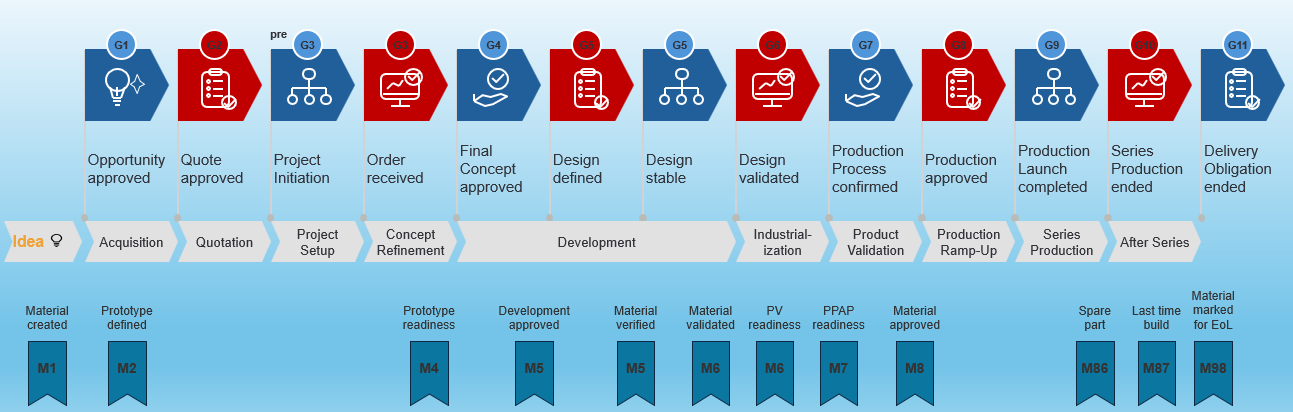
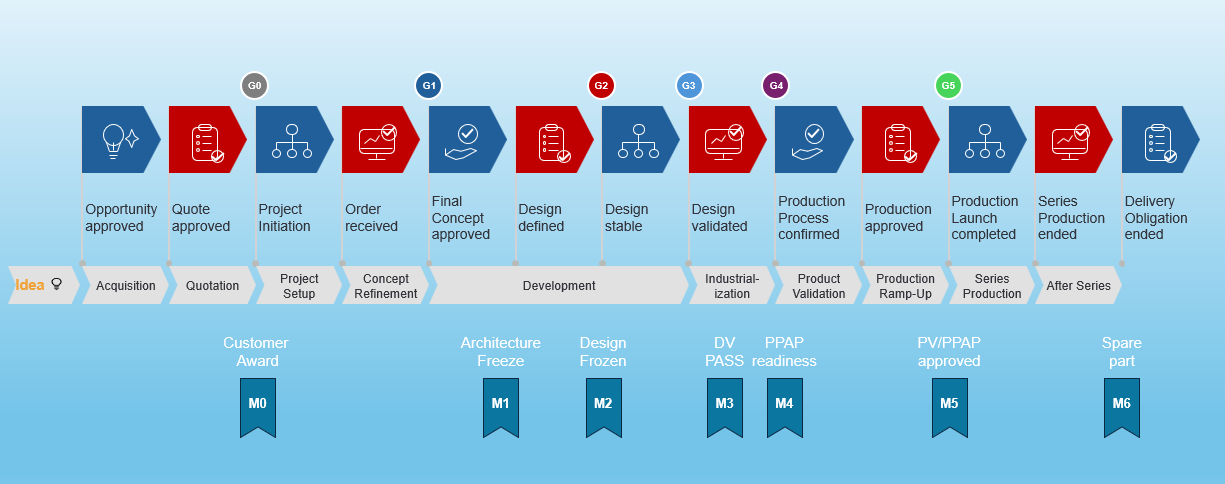
Replace home lifecycle map image

diff --git a/script.js b/script.js
@@ -471,10 +471,10 @@ const imageProcessGroups = [
   {id:'software', title:'Software Engineering', ids:['software-requirements-analysis','software-architectural-design','software-detailed-design-and-unit-construction','software-unit-verification','software-integration-and-integration-test','software-qualification-test']}
 ];
 const imageHotspots = [
-  ['Project Management',36+286*820/1187,245+16*820/1187,880*820/1187,30*820/1187,'project-management'],
-  ['Risk Management',36+515*820/1187,245+53*820/1187,195*820/1187,25*820/1187,'risk-management'],
-  ['Change Management',36+743*820/1187,245+53*820/1187,195*820/1187,25*820/1187,'change-request-management'],
-  ['Problem Resolution Management',36+972*820/1187,245+53*820/1187,194*820/1187,25*820/1187,'problem-resolution-management'],
+  ['Project Management',36+286*820/1187,288+16*820/1187,880*820/1187,30*820/1187,'project-management'],
+  ['Risk Management',36+515*820/1187,288+53*820/1187,195*820/1187,25*820/1187,'risk-management'],
+  ['Change Management',36+743*820/1187,288+53*820/1187,195*820/1187,25*820/1187,'change-request-management'],
+  ['Problem Resolution Management',36+972*820/1187,288+53*820/1187,194*820/1187,25*820/1187,'problem-resolution-management'],
   // Engineering image coordinates (1242 x 446), scaled to the existing map.
   ...[
     ['Engineering Releases',48,55,222,27,'product-release'],
@@ -491,7 +491,7 @@ const imageHotspots = [
     ['Electronic Engineering',485,255,400,26,'@electronics'],
     ['Mechanical Engineering',492,284,384,26,'@mechanical'],
     ['Software Engineering',502,313,365,26,'@software']
-  ].map(([label,x,y,w,h,target]) => [label,36+x*820/1242,324+y*820/1242,w*820/1242,h*820/1242,target]),
+  ].map(([label,x,y,w,h,target]) => [label,36+x*820/1242,369+y*820/1242,w*820/1242,h*820/1242,target]),
   ...[
     ['Supplier Management',9,474,193,27,'supplier-monitoring'],
     ['Structured Problem Solving',9,696,193,27,'problem-resolution-management'],
@@ -514,7 +514,7 @@ function renderDiagram() {
       <div class="reference-process-map">
         <img class="reference-map-quick" src="assets/quick-links.png" width="229" height="312" alt="Quick Links: Update Information, Rule Manager, Training Courses, KPIs, and Rule Overview." />
         <img class="reference-map-business" src="assets/business-processes.png" width="210" height="758" alt="Company strategy, business review, innovation, supplier management, customer management, and continuous improvement." />
-        <img class="reference-map-top" src="assets/engineering-lifecycle-top.png" width="1293" height="412" alt="Engineering lifecycle gates and material maturity milestones." />
+        <img class="reference-map-top" src="assets/engineering-lifecycle-top.png" width="1225" height="484" alt="Engineering lifecycle gates G0 to G5 and material maturity milestones M0 to M6." />
         <img class="reference-map-management" src="assets/project-management-section.png" width="1187" height="97" alt="Project Management, Tailoring for Reuse, Gate Releases, Risk Management, Change Management, and Problem Resolution." />
         <img class="reference-map-engineering" src="assets/engineering-section.png" width="1242" height="446" alt="Engineering processes, Quality Assurance, Safety Management, Cyber Security Management, and the systems engineering V-model." />
         <img class="reference-map-operations" src="assets/operations-section.png" width="1404" height="210" alt="Operations: Gate Releases, New Product Launch Management, Industrial Engineering: Test Engineering, and Industrial Engineering: Process Engineering." />

diff --git a/styles.css b/styles.css
@@ -4292,9 +4292,9 @@ input {
 .reference-process-map .reference-map-quick { position:absolute; left:82.0419%; top:1.1111%; width:15.4968%; }
 .reference-process-map .reference-map-business { position:absolute; left:82.0419%; top:28.3333%; width:15.4968%; }
 .reference-process-map .reference-map-top { position:absolute; left:3.2817%; top:0; width:74.7493%; }
-.reference-process-map .reference-map-management { position:absolute; left:3.2817%; top:31.2222%; width:74.7493%; }
-.reference-process-map .reference-map-engineering { position:absolute; left:3.2817%; top:40%; width:74.7493%; }
-.reference-process-map .reference-map-operations { position:absolute; left:3.2817%; top:75.5556%; width:74.7493%; }
+.reference-process-map .reference-map-management { position:absolute; left:3.2817%; top:36%; width:74.7493%; }
+.reference-process-map .reference-map-engineering { position:absolute; left:3.2817%; top:45%; width:74.7493%; }
+.reference-process-map .reference-map-operations { position:absolute; left:3.2817%; top:82%; width:74.7493%; }
 .image-hotspot { position:absolute; display:block; padding:0; border:1px solid rgba(49,95,136,.28); border-radius:2px; background:transparent; cursor:pointer; }
 .image-hotspot:hover,.image-hotspot:focus-visible { background:rgba(255,215,95,.25); outline:3px solid #315f88; outline-offset:1px; z-index:1; }
 .image-process-directory { margin-top:24px; }
